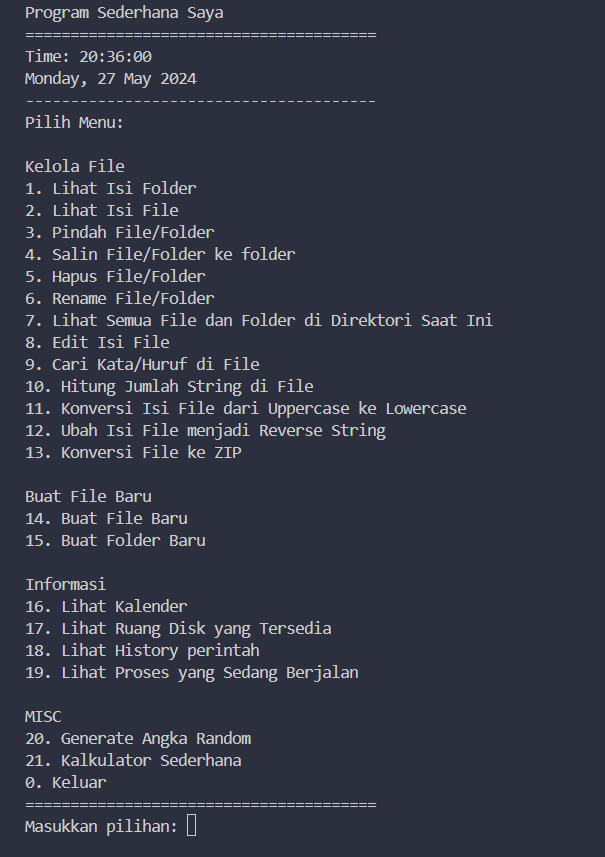
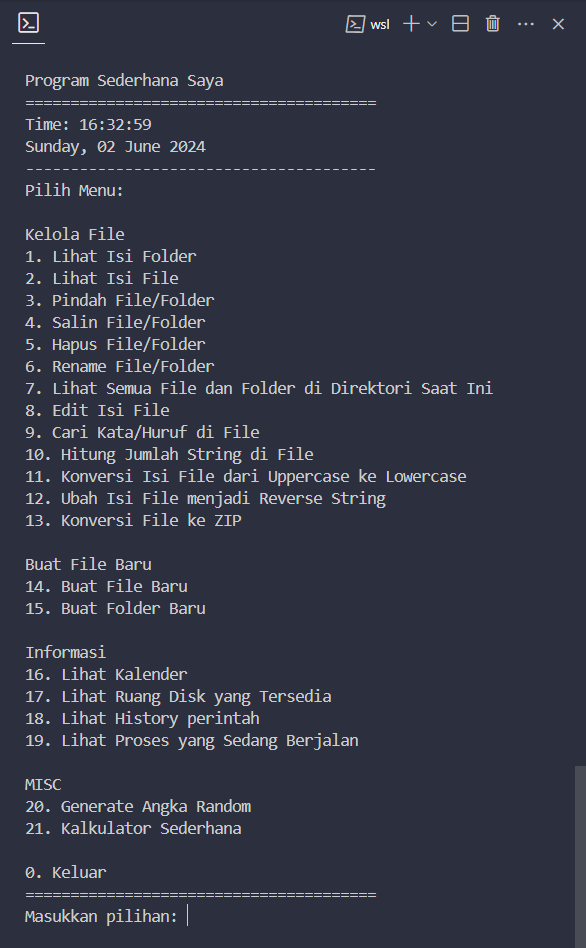
docs: merapikan file

diff --git a/Semester-2/SISOP/UAS-SISTEMOPERASI/README.md b/Semester-2/SISOP/UAS-SISTEMOPERASI/README.md
@@ -1,44 +1,47 @@
 # Data Diri
 
-| | |
-|--|--|
-| NIM | **2341720185** |
-| Nama Lengkap | **Mohammad Adri Favian** |
-| Kelas | TI-1B |
-| Dosen Pengampu 1 | [Erfan Rohadi, ST., M.Eng., Ph.D](https://scholar.google.co.id/citations?user=i9ivLAkAAAAJ&hl=id) |
-| Dosen Pengampu 2 | [Mohammad Faried Rahmat, S.ST., M.Tr.T](https://github.com/fariedrahmat) |
+|                |                                   |
+|----------------|-----------------------------------|
+| **NIM**        | **2341720185**                        |
+| **Nama Lengkap** | **Mohammad Adri Favian**            |
+| **Kelas**      | **TI-1B**                             |
+| **Dosen Pengampu 1** | [Erfan Rohadi, ST., M.Eng., Ph.D](https://scholar.google.co.id/citations?user=i9ivLAkAAAAJ&hl=id) |
+| **Dosen Pengampu 2** | [Mohammad Faried Rahmat, S.ST., M.Tr.T](https://github.com/fariedrahmat) |
 
 # SISTEM OPERASI
-### Fitur Program
 
-|**No**| **Fitur** | **Detail** |
-|--|--|--|
-| 1 | Lihat File | Melihat daftar isi sebuah direktori dengan perintah ***ls -l*** |
-| 2 | Hapus File/Folder | Menghapus file dari sebuah direktori dengan perintah ***rm -i*** dan menghapus sebuah folder dengan perintah ***rm -r***|
-| 3 | Memindah File/Folder | Memindahkan file dengan perintah ***mv*** |
-| 4 | Salin File/Folder | Menyalin file atau folder dengan perintah ***cp -r*** |
-| 5 | Rename File/Folder | Mengubah nama file atau folder dengan perintah ***mv*** |
-| 6 | Edit Isi File | Mengedit isi file dengan perintah ***nano*** |
-| 7 | Cari Kata/Huruf di File | Mencari kata atau huruf di dalam file dengan perintah ***grep*** |
-| 8 | Hitung Jumlah String di File | Menghitung jumlah string di dalam file dengan perintah ***wc -m*** |
-| 9 | Konversi Isi File dari Uppercase ke Lowercase | Mengubah isi file dari huruf besar ke huruf kecil dengan perintah ***tr*** |
-| 10 | Ubah Isi File menjadi Reverse String | Mengubah isi file menjadi urutan terbalik dengan perintah ***rev*** |
-| 11 | Konversi File ke ZIP | Mengonversi file menjadi ZIP dengan perintah ***zip*** |
-| 12 | Lihat Kalender | Melihat kalender dengan perintah ***ncal*** |
-| 13 | Lihat Ruang Disk yang Tersedia | Melihat ruang disk yang tersedia dengan perintah ***df -h*** |
-| 14 | Lihat History Perintah | Melihat history perintah dengan perintah ***history*** |
-| 15 | Lihat Proses yang Sedang Berjalan | Melihat proses yang sedang berjalan dengan perintah ***ps aux*** |
-| 16 | Generate Angka Random | Menghasilkan angka acak dalam rentang tertentu |
-| 17 | Kalkulator Sederhana | Melakukan operasi matematika sederhana |
-| 18 | Tampilan Jam dan Tanggal | Menampilkan Jam dan Tanggal sekarang dengan perintah **date**|
+## Fitur Program
 
+| No | Fitur                                           | Detail                                                                 |
+|----|-------------------------------------------------|------------------------------------------------------------------------|
+| 1  | Lihat Isi Folder                                | Melihat daftar isi sebuah direktori dengan perintah `ls -l`             |
+| 2  | Lihat Isi File                                  | Menampilkan isi file dengan perintah `cat`                              |
+| 3  | Pindah File/Folder                              | Memindahkan file dengan perintah `mv`                                   |
+| 4  | Salin File/Folder                               | Menyalin file atau folder dengan perintah `cp -r`                       |
+| 5  | Hapus File/Folder                               | Menghapus file dengan perintah `rm` dan menghapus folder dengan perintah `rm -r` |
+| 6  | Rename File/Folder                              | Mengubah nama file atau folder dengan perintah `mv`                     |
+| 7  | Lihat Semua File dan Folder di Direktori Saat Ini | Menampilkan semua file dan folder termasuk yang tersembunyi dengan perintah `ls -a` |
+| 8  | Edit Isi File                                   | Mengedit isi file dengan perintah `nano`                                |
+| 9  | Cari Kata/Huruf di File                         | Mencari kata atau huruf di dalam file dengan perintah `grep`            |
+| 10 | Hitung Jumlah String di File                    | Menghitung jumlah karakter di dalam file dengan perintah `wc -m`        |
+| 11 | Konversi Isi File dari Uppercase ke Lowercase   | Mengubah isi file dari huruf besar ke huruf kecil dengan perintah `tr`  |
+| 12 | Ubah Isi File menjadi Reverse String            | Mengubah isi file menjadi urutan terbalik dengan perintah `rev`         |
+| 13 | Konversi File ke ZIP                            | Mengonversi file menjadi ZIP dengan perintah `zip`                      |
+| 14 | Buat File Baru                                  | Membuat file baru dengan perintah `touch`                               |
+| 15 | Buat Folder Baru                                | Membuat folder baru dengan perintah `mkdir`                             |
+| 16 | Lihat Kalender                                  | Melihat kalender dengan perintah `ncal`                                 |
+| 17 | Lihat Ruang Disk yang Tersedia                  | Melihat ruang disk yang tersedia dengan perintah `df -h`                |
+| 18 | Lihat History Perintah                          | Melihat history perintah dengan perintah `history`                      |
+| 19 | Lihat Proses yang Sedang Berjalan               | Melihat proses yang sedang berjalan dengan perintah `ps aux`            |
+| 20 | Generate Angka Random                           | Menghasilkan angka acak dalam rentang tertentu                          |
+| 21 | Kalkulator Sederhana                            | Melakukan operasi matematika sederhana                                  |
 
 ### Tampilan Program
 ```go
 Program Sederhana Saya
 =======================================
-Time: 20:36:00
-Monday, 27 May 2024
+Time: 16:32:59
+Sunday, 02 June 2024
 ---------------------------------------
 Pilih Menu:
 
@@ -46,7 +49,7 @@ Kelola File
 1. Lihat Isi Folder
 2. Lihat Isi File
 3. Pindah File/Folder
-4. Salin File/Folder ke folder
+4. Salin File/Folder
 5. Hapus File/Folder
 6. Rename File/Folder
 7. Lihat Semua File dan Folder di Direktori Saat Ini
@@ -70,6 +73,7 @@ Informasi
 MISC
 20. Generate Angka Random
 21. Kalkulator Sederhana
+
 0. Keluar
 =======================================
 Masukkan pilihan:
